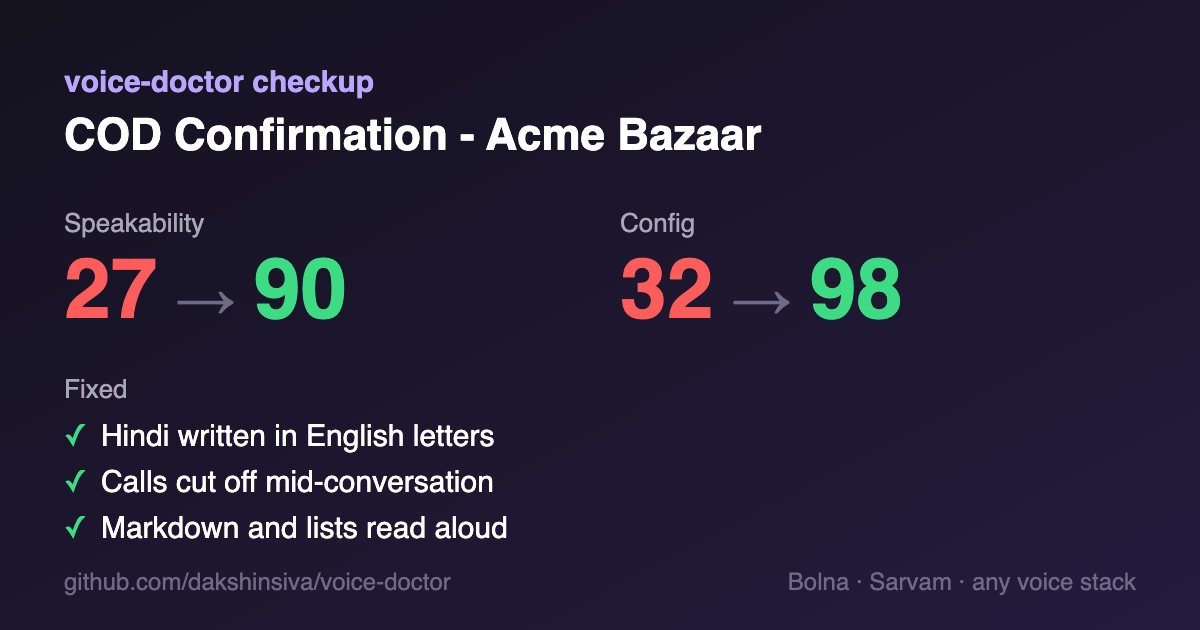
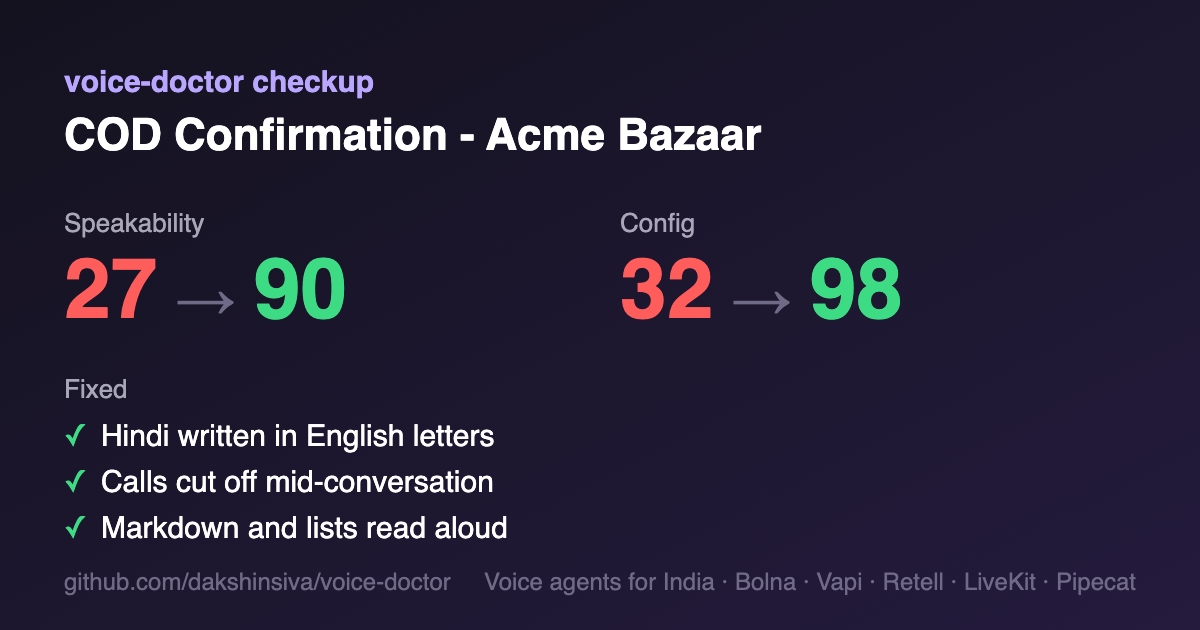
Position voice-doctor as the checkup for voice agents built in India
README leads with India: Hindi, Hinglish, Kannada, Tamil, Telugu and
Indian English on Bolna, Vapi, Retell, LiveKit and Pipecat, with a
'Built for how India actually talks' section covering script and
code-mixing, Indian numbers, which providers support which Indian
languages, Indian callers and Indian telephony. The skill description,
plugin and marketplace listings and the scorecard footer say the same.

Changed region(s): [[0.4008, 0.9048, 0.9558, 0.9349]]

diff --git a/skills/voice-doctor/scripts/scorecard.py b/skills/voice-doctor/scripts/scorecard.py
@@ -167,7 +167,7 @@ def svg(before: dict, after: dict | None) -> str:
                      f'<tspan fill="#ffffff" dx="14">{escape(item)}</tspan></text>')
     parts += [
         f'<text x="64" y="{H - 40}" fill="#6f6a85" font-size="24">github.com/dakshinsiva/voice-doctor</text>',
-        f'<text x="{W - 64}" y="{H - 40}" fill="#6f6a85" font-size="24" text-anchor="end">Bolna · Sarvam · any voice stack</text>',
+        f'<text x="{W - 64}" y="{H - 40}" fill="#6f6a85" font-size="24" text-anchor="end">Voice agents for India · Bolna · Vapi · Retell · LiveKit · Pipecat</text>',
         "</g></svg>",
     ]
     return "\n".join(parts)

diff --git a/README.md b/README.md
@@ -4,13 +4,16 @@
 
 **Your voice agent sounds robotic. voice-doctor finds out why and fixes it.**
 
-A Claude Code skill that listens to your phone agent the way a caller does (prompt, config and real calls), finds what makes it sound robotic, slow or rude, then rewrites the prompt, fixes the config and tells you exactly what to test.
-Built for **Bolna + Sarvam**, Indian languages first. Config checks for **Vapi** and **Retell** too.
+The checkup every voice agent built in India should get before it talks to a customer.
+
+A Claude Code skill that listens to your agent the way a caller does (prompt, config, code and real calls), finds what makes it sound robotic, slow or rude in **Hindi, Hinglish, Kannada, Tamil, Telugu and Indian English**, then rewrites the prompt, fixes the config and tells you exactly what to test.
+Works on **Bolna, Vapi, Retell, LiveKit and Pipecat**, with **Sarvam**, Deepgram, ElevenLabs and Cartesia voices over **Exotel, Plivo** or Twilio.
 
 [![tests](https://github.com/dakshinsiva/voice-doctor/actions/workflows/tests.yml/badge.svg)](https://github.com/dakshinsiva/voice-doctor/actions/workflows/tests.yml)
 [![license: MIT](https://img.shields.io/badge/license-MIT-blue.svg)](LICENSE)
 ![Claude Code skill](https://img.shields.io/badge/Claude_Code-skill-d97757)
-![Built for Bolna + Sarvam](https://img.shields.io/badge/built_for-Bolna_%2B_Sarvam-6b4fbb)
+![Made for voice agents in India](https://img.shields.io/badge/made_for-voice_agents_in_India-ff9933)
+![Bolna · Vapi · Retell · LiveKit · Pipecat](https://img.shields.io/badge/Bolna_·_Vapi_·_Retell_·_LiveKit_·_Pipecat-6b4fbb)
 
 </div>
 
@@ -18,7 +21,10 @@ Built for **Bolna + Sarvam**, Indian languages first. Config checks for **Vapi**
 claude plugin marketplace add dakshinsiva/voice-doctor && claude plugin install voice-doctor@voice-doctor
 ```
 
-Then, in Claude Code: *"my Bolna agent sounds robotic, here's the export: agent.json"*
+Then, in Claude Code, on any stack:
+- *"my Bolna agent sounds robotic, here's the export: agent.json"*
+- *"our LiveKit Hindi agent in src/agent.py keeps cutting people off"*
+- *"check my Vapi assistant before tomorrow's calling batch"*
 
 <p align="center"><img src="docs/scorecard-example.png" alt="voice-doctor scorecard: speakability 27 to 90, config 32 to 98" width="720"></p>
 
@@ -36,6 +42,23 @@ After voice-doctor:
 
 22 words. One question. Devanagari with English words left in English, the way Sarvam pronounces best. Says it's an AI. Checks who answered before sharing anything.
 
+## Built for how India actually talks
+
+Global voice tools treat Indian languages as an afterthought. voice-doctor starts from them:
+- **Script and code-mixing.** Hindi in Devanagari with English words left in English ("आपका order confirm हो गया है"), the way Sarvam pronounces it best. It flags romanised Hindi going to a Sarvam voice, textbook "IVR Hindi", written-register Kannada and the wrong verb gender for the persona.
+- **Indian numbers.** ₹1,499 and lakh/crore in the form your voice engine reads correctly, pincodes and phone numbers in digit groups, weekday dates instead of "18/10".
+- **Which provider speaks which language.**
+
+  | Platform or voice | Gap |
+  |---|---|
+  | Retell | no Telugu, Malayalam, Bengali, Gujarati or Punjabi |
+  | ElevenLabs Flash | Hindi and Tamil only |
+  | Deepgram Nova-3 | no Malayalam |
+  | Bulbul v4 Flash | no Malayalam or Odia voices |
+  | Sarvam's LiveKit and Pipecat plugins | default the voice to English unless you set the language |
+- **Indian callers.** Scam-wary customers (it adds "we never ask for your OTP"), family members picking up the phone, "theek hai, thank you" mid-call, Kannada speakers on a Hindi line.
+- **Indian telephony.** Exotel, Plivo and Vobiz routing (Twilio calls on Bolna run through US servers), calling hours, voicemail on Indian mobiles.
+
 ## Why agents sound robotic, and what it catches
 
 Found in testing, on synthetic agents, public Bolna agents from GitHub and a live Bolna account:
@@ -47,7 +70,11 @@ Found in testing, on synthetic agents, public Bolna agents from GitHub and a liv
 - 🎭 **A voice that doesn't exist.** `anushka` is a v2/v3 name; it isn't a `bulbul:v4-flash` voice. ElevenLabs Flash on a Kannada agent. Cartesia with no language on a Tamil agent.
 - 🔗 **Things nobody can use by ear.** Order IDs, `#` signs, links, emails, `**bold**` and "18/10" read aloud.
 - 🧩 **Template leftovers.** A literal `***REMOVED***` in the persona line and a `your-domain.com` webhook in an open-source agent people copy.
-- 🪤 **Platform traps.** Retell keeps a silent call open for 10 minutes by default and has no voicemail detection on agents created through the API. Vapi's voicemail detection is off by default, and fields like `silenceTimeoutSeconds` aren't in its current schema. Neither platform covers every Indian language: Retell has no Telugu, Malayalam, Bengali, Gujarati or Punjabi.
+- 🪤 **Platform traps.**
+  - **Retell** keeps a silent call open for 10 minutes by default.
+  - **Vapi's** voicemail detection is off by default.
+  - **LiveKit's** `EnglishModel` turn detector misjudges when Hindi speakers have finished.
+  - **Pipecat 1.0** silently ignores `PipelineParams(allow_interruptions=...)`.
 - 💸 **Money spent on calls that couldn't finish.** In the sample week, 72% of spend went to calls cut off at the 90 s cap (52%) and to voicemail (18%).
 - 🐢 **Slow turns, measured.** LLM first token p50 1,480 ms / p95 1,910 ms from `reasoning_effort: medium`, plus 1,000 ms of configured waits, across every call in `latency_data`.
 
@@ -101,7 +128,7 @@ Three checks, used depending on what you give it:
 | Check | Input | What it looks at |
 |---|---|---|
 | Prompt | system prompt, welcome, per-call variables | markdown, links, numbers in the form your TTS wants, script and register for Indian languages, turn length, missing situations |
-| Config | Bolna agent JSON, Vapi assistant, or Retell agent + LLM | endpointing, interruptions, silence and hang-up timers, call length cap, voice and model language support, reasoning effort, TTS buffer, voicemail, calling hours, outcome capture |
+| Config | Bolna agent JSON, Vapi assistant, Retell agent + LLM, or LiveKit / Pipecat Python code (findings with `file:line`) | endpointing, interruptions, silence and hang-up timers, call length cap, voice and model language support, reasoning effort, TTS buffer, voicemail, calling hours, outcome capture |
 | Calls | Bolna executions | latency p50/p95 per component, interruptions, monologues, "hello? are you there?", loops, unspeakable output, calls hitting the cap, **where the spend went** (voicemail, cut-offs, early hang-ups), missing outcomes, worst calls to listen to |
 
 The scripts are plain Python 3 with no dependencies. Claude reads their output, reads your prompt and worst calls itself, and writes the fixes.
